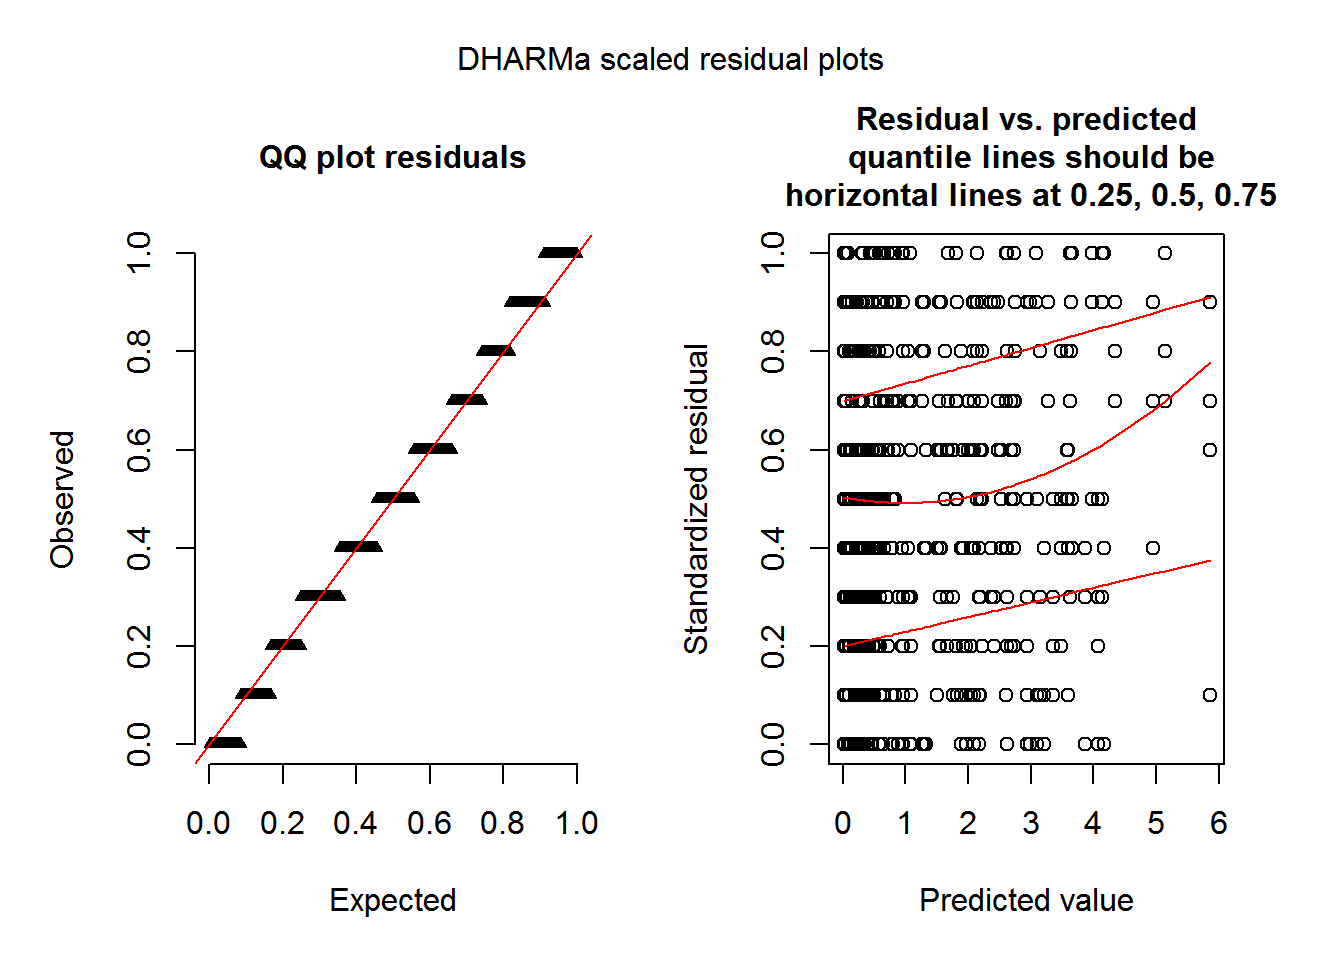
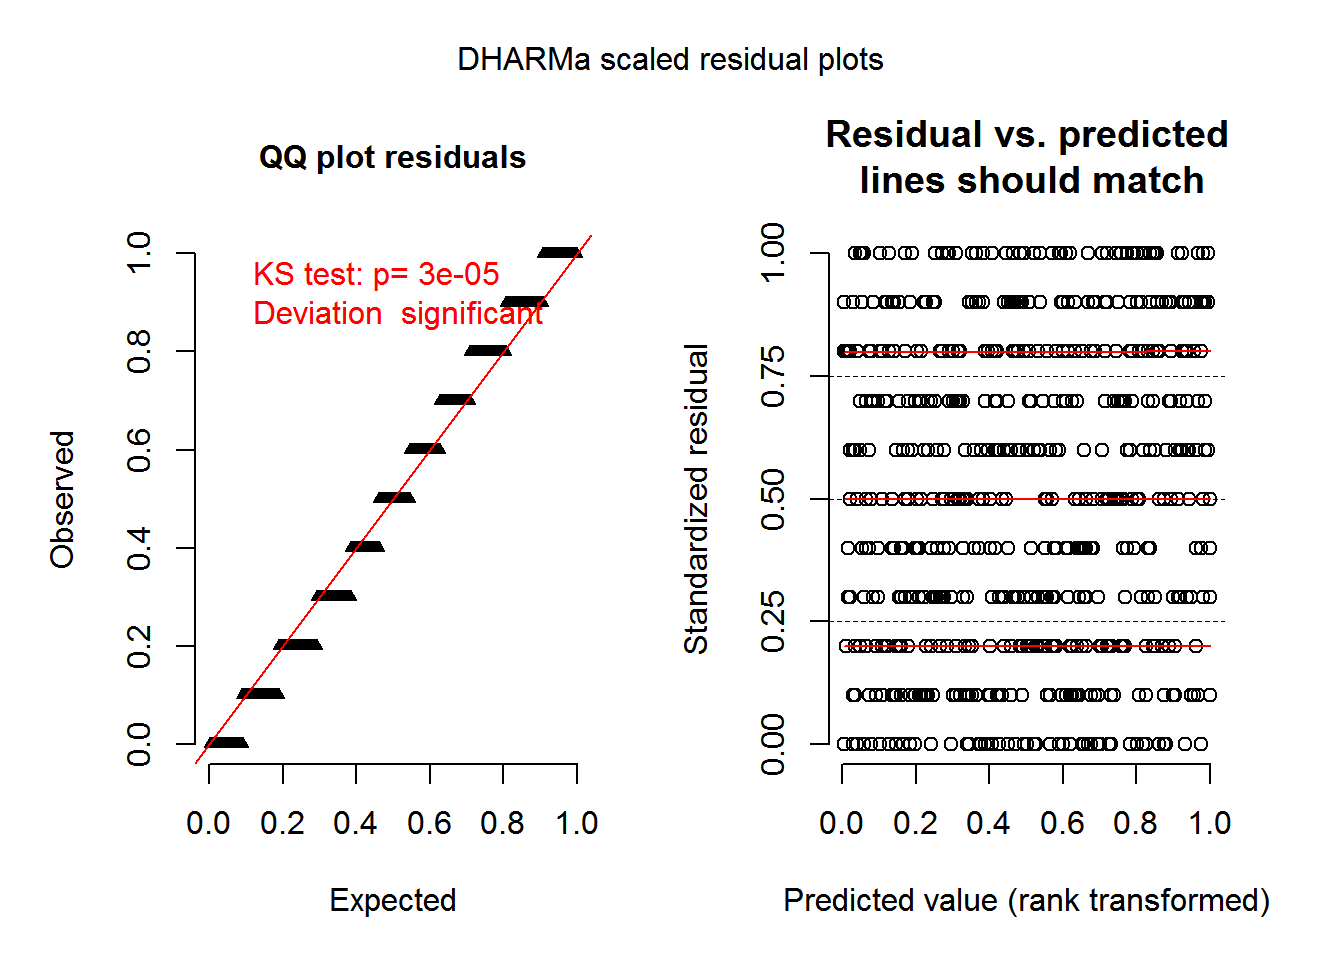
Update first post about new DHARMa support for glmmTMB

diff --git a/content/post/2017-12-21-using-dharma-for-simulated-residual-checks-of-unsupported-models.html b/content/post/2017-12-21-using-dharma-for-simulated-residual-checks-of-unsupported-models.html
@@ -41,7 +41,8 @@ description: "Checking for model fit from generalized linear mixed models (GLMM)
 <p>When a function has a <code>simulate</code> function, getting the simulations needed to use <code>createDHARMa</code> can be comparatively straightforward.</p>
 <div id="example-using-glmmtmb" class="section level2">
 <h2>Example using glmmTMB()</h2>
-<p>The <code>glmmTMB</code> function from package <strong>glmmTMB</strong> is one of those models that <strong>DHARMa</strong> doesn’t currently support. The <code>glmmTMB</code> functions does, however, have a <code>simulate</code> function.</p>
+<p>The <code>glmmTMB</code> function from package <strong>glmmTMB</strong> is one of those models that <strong>DHARMa</strong> doesn’t currently support. (<em>2018-04-05 update: the development version of DHARMA <a href="https://github.com/florianhartig/DHARMa/issues/16">now supports glmmTMB objects for glmmTMB 0.2.1</a>. I believe the example below is still useful for showing how to work with DHARMa-unsupported model types that have a simulate() function.</em>)</p>
+<p>The <code>glmmTMB</code> function does have a <code>simulate</code> function.</p>
 <pre class="r"><code>library(DHARMa) # version 0.1.5
 library(glmmTMB) # version 0.1.1</code></pre>
 <p>I’m going to use one of the models from the <strong>glmmTMB</strong> documentation to demonstrate how to make the simulations and then use them in <code>createDHARMa</code>.</p>
@@ -51,35 +52,35 @@ library(glmmTMB) # version 0.1.1</code></pre>
                   family = nbinom2, data = Salamanders)</code></pre>
 <p>If I try to calculate the scaled residuals via <strong>DHARMa</strong> functions, I get a warning and then an error. <strong>DHARMa</strong> attempts to make predictions from the model to simulate with, but it fails.</p>
 <pre class="r"><code>simulateResiduals(fittedModel = fit_nbz, n = 250)</code></pre>
-<pre><code>## Warning in checkModel(fittedModel): DHARMa: fittedModel not in class of
-## supported models. Absolutely no guarantee that this will work!</code></pre>
-<pre><code>## Error in predict.glmmTMB(fittedModel, type = &quot;response&quot;, re.form = ~0): re.form not yet implemented</code></pre>
+<pre><code>## Object of Class DHARMa with simulated residuals based on 250 simulations with refit = FALSE . See ?DHARMa::simulateResiduals for help. 
+##  
+## Scaled residual values: 0.12 0.492 0.424 0.672 0.644 0.568 0.456 0.672 0.836 0.556 0.392 0.004 0.452 0.116 0.084 0.296 0.184 0.54 0.576 0.56 ...</code></pre>
 <p>This is an indication I’ll need to use <code>createDHARMa</code> to make the residuals instead.</p>
 <p>I can simulate from my model via the <code>simulate</code> function (see the documentation for <code>simulate.glmmTMB</code> for details). I usually do at least 1000 simulations if it isn’t too time-consuming. I’ll do only 10 here as an example.</p>
 <pre class="r"><code>sim_nbz = simulate(fit_nbz, nsim = 10)</code></pre>
 <p>The result is a list of simulated response vectors.</p>
 <pre class="r"><code>str(sim_nbz)</code></pre>
-<pre><code>## List of 10
-##  $ : num [1:644] 0 0 0 0 0 12 2 2 2 8 ...
-##  $ : num [1:644] 0 0 0 0 15 6 1 6 0 0 ...
-##  $ : num [1:644] 0 0 0 0 0 0 0 0 6 17 ...
-##  $ : num [1:644] 0 0 0 0 3 3 0 3 2 4 ...
-##  $ : num [1:644] 0 0 0 0 0 0 7 0 0 0 ...
-##  $ : num [1:644] 0 2 0 1 0 4 3 11 0 0 ...
-##  $ : num [1:644] 0 0 0 1 1 0 1 0 0 2 ...
-##  $ : num [1:644] 0 0 0 2 0 0 2 0 0 1 ...
-##  $ : num [1:644] 0 0 0 0 2 0 2 2 0 4 ...
-##  $ : num [1:644] 0 0 1 3 1 2 0 2 0 4 ...</code></pre>
+<pre><code>## &#39;data.frame&#39;:    644 obs. of  10 variables:
+##  $ sim_1 : num  0 1 2 0 0 4 5 1 0 2 ...
+##  $ sim_2 : num  0 1 0 2 1 5 3 0 0 3 ...
+##  $ sim_3 : num  0 0 1 6 1 2 0 8 4 3 ...
+##  $ sim_4 : num  0 0 0 3 5 0 4 6 6 0 ...
+##  $ sim_5 : num  0 0 0 1 4 6 1 1 0 0 ...
+##  $ sim_6 : num  0 0 0 3 2 0 0 0 0 0 ...
+##  $ sim_7 : num  0 0 0 3 1 0 9 0 0 6 ...
+##  $ sim_8 : num  0 0 0 0 1 0 2 2 1 0 ...
+##  $ sim_9 : num  0 0 0 0 6 7 1 1 5 4 ...
+##  $ sim_10: num  0 2 0 5 3 0 1 1 1 6 ...</code></pre>
 <p>I need these in a matrix, not a list, where each column contains a simulated response vector and each row is an observation. I’ll collapse the list into a matrix by using <code>cbind</code> in <code>do.call</code>.</p>
 <pre class="r"><code>sim_nbz = do.call(cbind, sim_nbz)
 head(sim_nbz)</code></pre>
-<pre><code>##      [,1] [,2] [,3] [,4] [,5] [,6] [,7] [,8] [,9] [,10]
-## [1,]    0    0    0    0    0    0    0    0    0     0
-## [2,]    0    0    0    0    0    2    0    0    0     0
-## [3,]    0    0    0    0    0    0    0    0    0     1
-## [4,]    0    0    0    0    0    1    1    2    0     3
-## [5,]    0   15    0    3    0    0    1    0    2     1
-## [6,]   12    6    0    3    0    4    0    0    0     2</code></pre>
+<pre><code>##      sim_1 sim_2 sim_3 sim_4 sim_5 sim_6 sim_7 sim_8 sim_9 sim_10
+## [1,]     0     0     0     0     0     0     0     0     0      0
+## [2,]     1     1     0     0     0     0     0     0     0      2
+## [3,]     2     0     1     0     0     0     0     0     0      0
+## [4,]     0     2     6     3     1     3     3     0     0      5
+## [5,]     0     1     1     5     4     2     1     1     6      3
+## [6,]     4     5     2     0     6     0     0     0     7      0</code></pre>
 <p>Now I can pass these to <code>createDHARMa</code> along with observed values and model predictions. I set <code>integerResponse</code> to <code>TRUE</code>, as well, as I’m working with counts.</p>
 <pre class="r"><code>sim_res_nbz = createDHARMa(simulatedResponse = sim_nbz, 
                            observedResponse = Salamanders$count,
@@ -88,6 +89,7 @@ head(sim_nbz)</code></pre>
 <p>This function creates the scaled residuals that can be used to make residual plots via <strong>DHARMa</strong>’s <code>plotSimulatedResiduals</code>.</p>
 <p>Remember I’ve only done 10 simulations here, so this particular set of plots don’t look very nice.</p>
 <pre class="r"><code>plotSimulatedResiduals(sim_res_nbz)</code></pre>
+<pre><code>## plotSimulatedResiduals is deprecated, switch your code to using the plot function</code></pre>
 <p><img src="/post/2017-12-21-using-dharma-for-simulated-residual-checks-of-unsupported-models_files/figure-html/unnamed-chunk-10-1.png" width="672" /></p>
 </div>
 </div>
@@ -128,18 +130,19 @@ mus = predict(fit_zinb, type = &quot;count&quot;)</code></pre>
 <p>The output of <code>replicate</code> in this case is a matrix, with one simulated response vector in every column and an observation in every row. This is ready for use in <code>createDHARMa</code>.</p>
 <pre class="r"><code>head(sim_zinb)</code></pre>
 <pre><code>##      [,1] [,2] [,3] [,4] [,5] [,6] [,7] [,8] [,9] [,10]
-## [1,]    0    0    3    0    2    1    2    2    2     1
-## [2,]    1    0    2    2    1    0    0    1    1     3
-## [3,]    0    5    2    3    1    0    0    0    3     0
-## [4,]    2    2    2    2    2    0    5    1    5     1
-## [5,]    9    1    3    2    1    5    3    2    0     4
-## [6,]    0    1    0    1    0    0    2    0    1     0</code></pre>
+## [1,]    0    1    0    1    1    0    0    3    2     0
+## [2,]    0    3    6    3    3    0    0    0    0     1
+## [3,]    3    1    1    0    1    1    1    2    0     0
+## [4,]    0    1    0    3    0    0    1    1    0     0
+## [5,]    2    0    3    3    3    0    2    1    0     8
+## [6,]    0    3    4    1    2    3    3    2    0     1</code></pre>
 <p>Making the simulations was the hard part. Now that I have them, <code>createDHARMa</code> works exactly the same way as in the <code>glmmTMB</code> example.</p>
 <pre class="r"><code>sim_res_zinb = createDHARMa(simulatedResponse = sim_zinb,
                             observedResponse = bioChemists$art,
                             fittedPredictedResponse = predict(fit_zinb, type = &quot;response&quot;),
                             integerResponse = TRUE)</code></pre>
 <pre class="r"><code>plotSimulatedResiduals(sim_res_zinb)</code></pre>
+<pre><code>## plotSimulatedResiduals is deprecated, switch your code to using the plot function</code></pre>
 <p><img src="/post/2017-12-21-using-dharma-for-simulated-residual-checks-of-unsupported-models_files/figure-html/unnamed-chunk-19-1.png" width="672" /></p>
 </div>
 </div>
